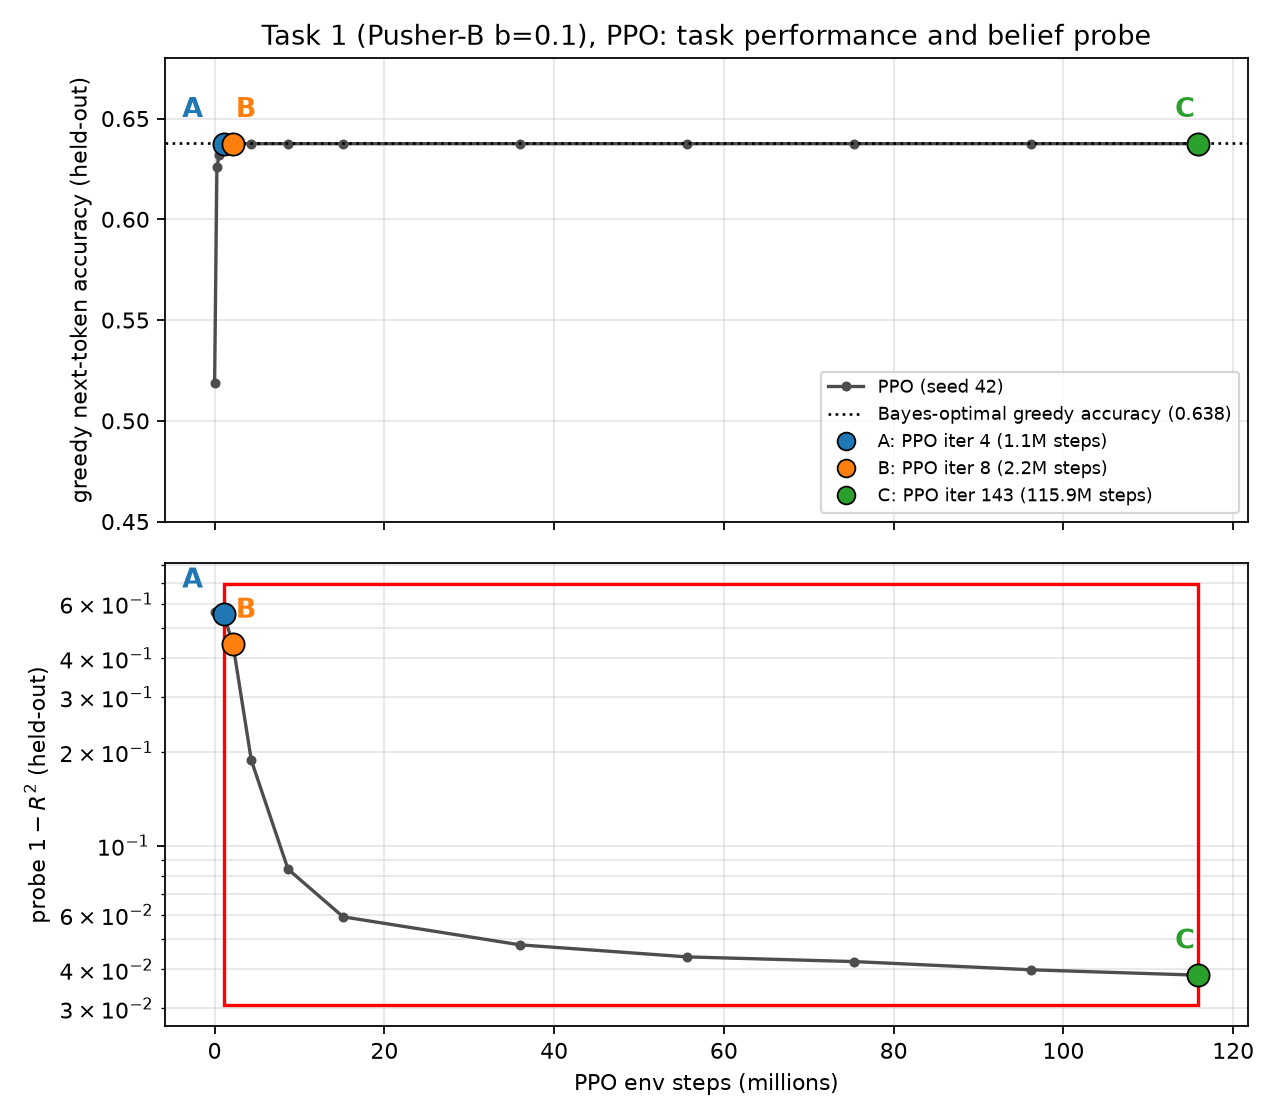
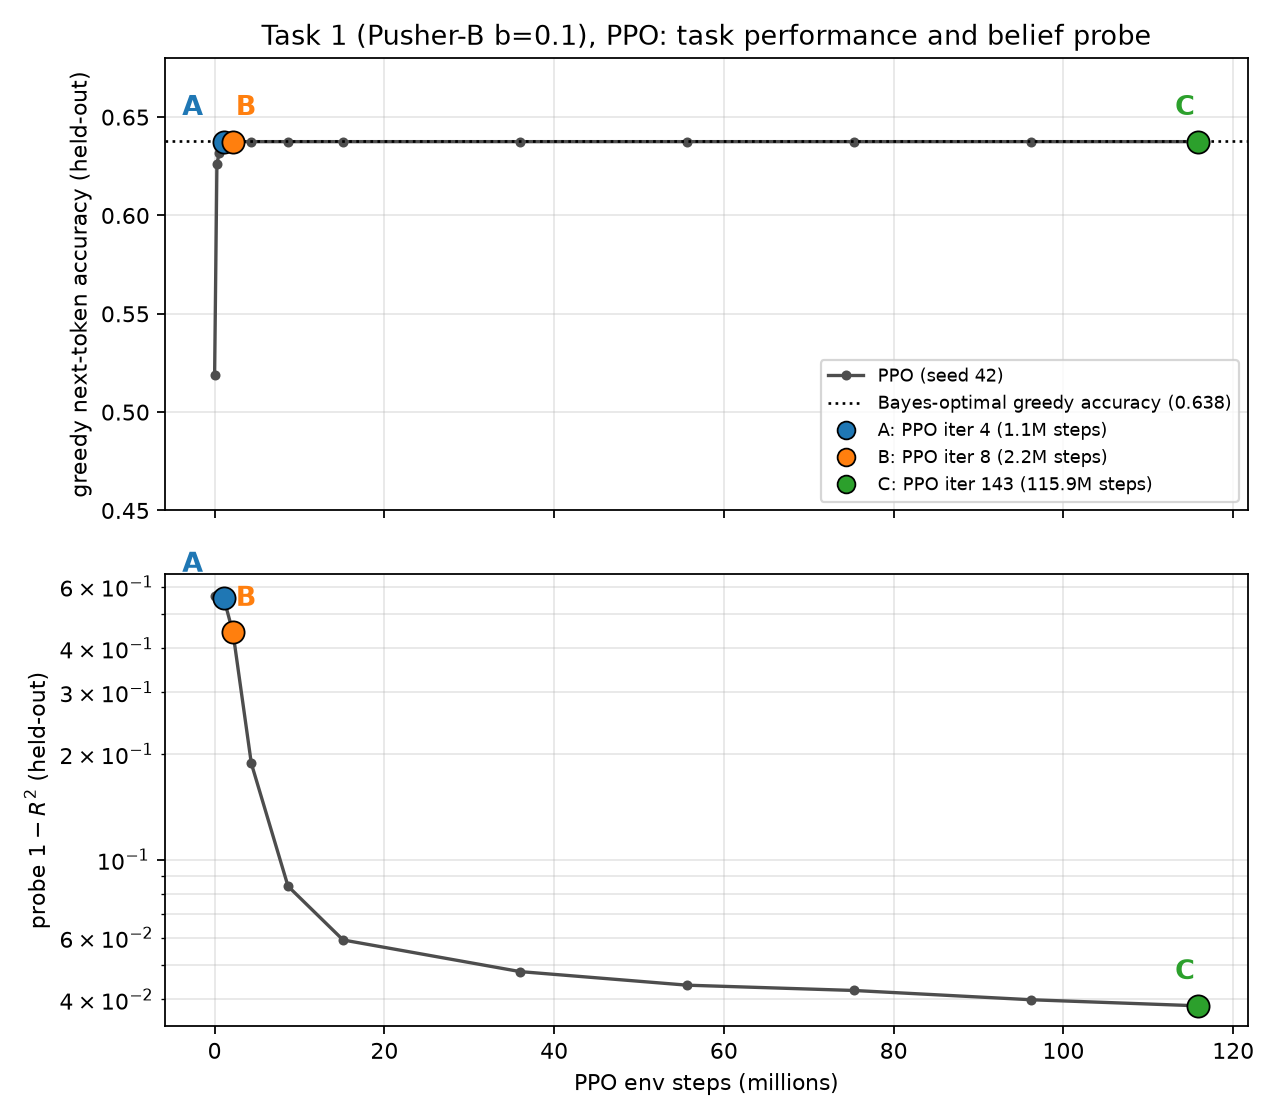
grokking_in_rl: drop red plateau box from Fig 1 and text

diff --git a/grokking_in_rl/plots.py b/grokking_in_rl/plots.py
@@ -16,7 +16,6 @@ import matplotlib
 
 matplotlib.use("Agg")
 import matplotlib.pyplot as plt
-from matplotlib.patches import Rectangle
 
 HERE = Path(__file__).resolve().parent
 DATA = HERE / "data"
@@ -62,14 +61,6 @@ def render_task1(family: str, out: Path) -> None:
     ax_acc.plot(x, acc, "-o", color=CURVE_COLOR, lw=1.5, ms=3.5, label=f"{family} (seed {SEED})")
     ax_acc.axhline(bayes, color="k", ls=":", lw=1.2, label=f"Bayes-optimal greedy accuracy ({bayes:.3f})")
     ax_err.plot(x, err, "-o", color=CURVE_COLOR, lw=1.5, ms=3.5)
-
-    # red box: task performance has plateaued at Bayes, probe error keeps falling
-    plateau = next(p for p in points if p["accuracy"] >= bayes - 1e-3)
-    best = min(points, key=lambda p: 1 - p["r2"])
-    x0, x1 = plateau["env_steps"] / 1e6, best["env_steps"] / 1e6
-    span = [1 - p["r2"] for p in points if x0 <= p["env_steps"] / 1e6 <= x1]
-    y0, y1 = min(span) / 1.25, max(span) * 1.25
-    ax_err.add_patch(Rectangle((x0, y0), x1 - x0, y1 - y0, fill=False, ec="red", lw=1.5, zorder=4))
 
     offsets = {"A": (-14, 12), "B": (6, 12), "C": (-6, 12)}
     for letter, (_, ckpt_label) in CHECKPOINTS[family].items():

diff --git a/grokking_in_rl/main.tex b/grokking_in_rl/main.tex
@@ -43,7 +43,7 @@ target is measured with a linear probe at each checkpoint.
 \subsection{Performance and Representation}
 
 Performance plateaus near optimal while the belief representation improves
-for a long period after (red box) in Figure~\ref{fig:task1-ppo}
+for a long period after in Figure~\ref{fig:task1-ppo}
 and~\ref{fig:task1-ppo-ce}. The second variant does not improve convergence
 time to task competency but does improve representation per training budget.
 
